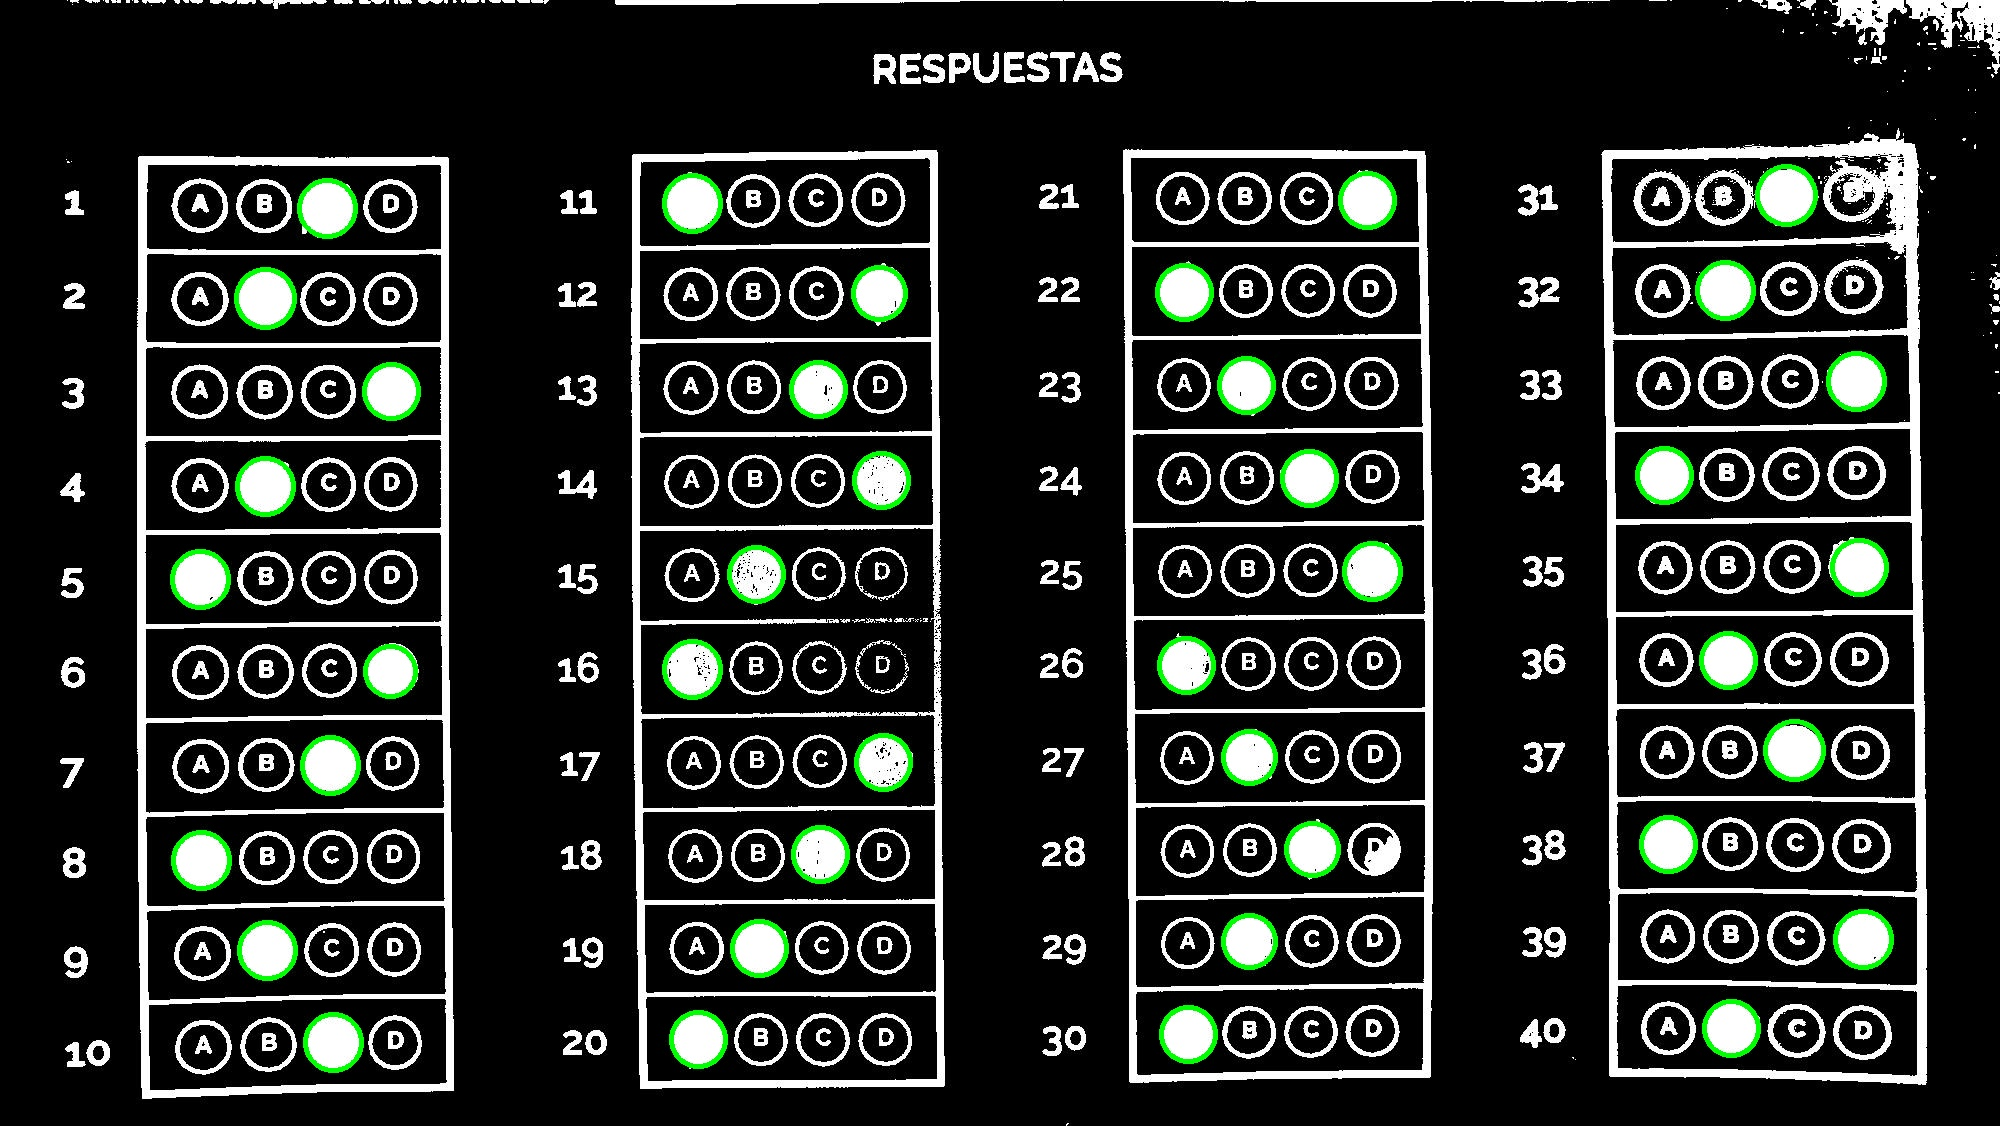
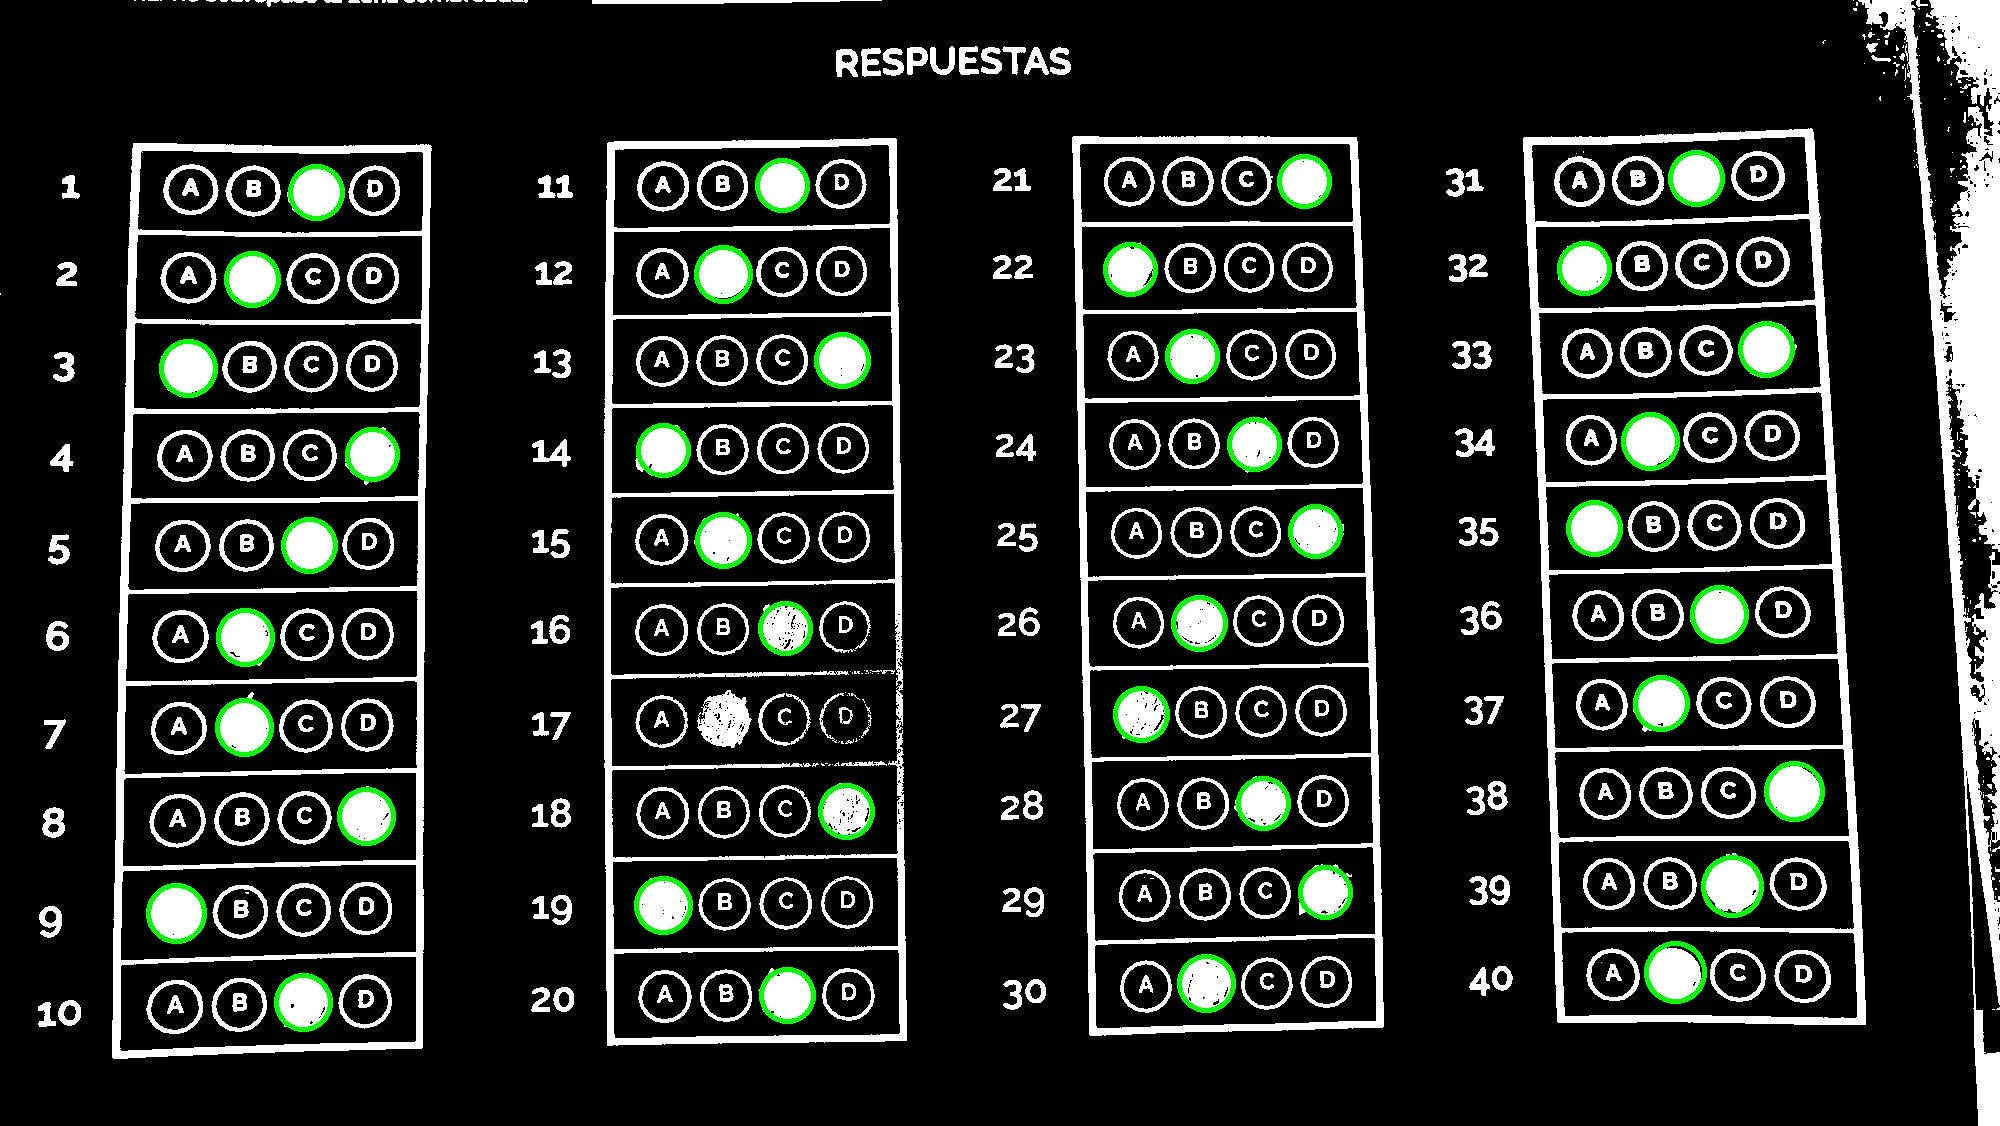
Mejorando numeración pero con fallos

Changed region(s): [[0.0, 0.0, 1.0, 1.0], [0.403, 0.0311, 0.558, 0.0933]]

diff --git a/src/correctorExamenes/Busqueda.java b/src/correctorExamenes/Busqueda.java
@@ -3,12 +3,15 @@ package correctorExamenes;
 import java.util.ArrayList;
 import java.util.Collections;
 import java.util.Comparator;
+import java.util.HashMap;
 import java.util.List;
+import java.util.Map;
 
 public class Busqueda {
 
     public void busquedaLetras(List<Par> coordenadas) {
 	List<Par> listaFinal = new ArrayList<>();
+	Map<Integer, String> listaNumeros = new HashMap<>();
 	// Ordenar la lista
 	Collections.sort(coordenadas, new Comparator<Par>() {
 	    @Override
@@ -34,41 +37,58 @@ public class Busqueda {
 	    int intC = 300; // 330
 	    int intD = 360; // 390
 
+	    int entreColumnas = 485; // entre columnas de a - a 485
+
 	    String letra = "A";
 	    if (stringX < intB) {
-		System.out.println("Letra A Primera Columna" + fila);
+		int numeroPregunta = numeroPregunta(fila);
+		listaNumeros.put(numeroPregunta, "A");
+		System.out.println("Pregunta :" + numeroPregunta + " A Primera Columna" + fila);
 		listaFinal.add(fila);
 		letra = "A";
 	    } else if (stringX > intB && stringX < intC) {
+		int numeroPregunta = numeroPregunta(fila);
+		listaNumeros.put(numeroPregunta, "B");
 		listaFinal.add(fila);
-		System.out.println("Letra B Primera Columna " + fila);
+		System.out.println("Pregunta :" + numeroPregunta + " B Primera Columna" + fila);
 		letra = "B";
 	    } else if (stringX > intC && stringX < intD) {
+		int numeroPregunta = numeroPregunta(fila);
+		listaNumeros.put(numeroPregunta, "C");
 		listaFinal.add(fila);
-		System.out.println("Letra C Primera Columna " + fila);
+		System.out.println("Pregunta :" + numeroPregunta + " C Primera Columna" + fila);
 		letra = "C";
 	    } else if (stringX > intD && stringX < 400) {
+		int numeroPregunta = numeroPregunta(fila);
+		listaNumeros.put(numeroPregunta, "D");
 		listaFinal.add(fila);
-		System.out.println("Letra D Primera Columna " + fila);
+		System.out.println("Pregunta :" + numeroPregunta + " D Primera Columna" + fila);
 		letra = "D";
 	    } // else {
 	      // System.out.println("Error de lectura " + fila);
 	      // }
-	    int segundaColumna = 500;
 
-	    if (stringX < (intB + segundaColumna) && stringX > 400) {
+	    if (stringX < (intB + entreColumnas) && stringX > 400) {
+		int numeroPregunta = numeroPregunta(fila);
+		listaNumeros.put(numeroPregunta + 10, "A");
 		listaFinal.add(fila);
 		System.out.println("Letra A Segunda Columna" + fila);
 		letra = "A";
-	    } else if (stringX > (intB + segundaColumna) && stringX < (intC + segundaColumna)) {
+	    } else if (stringX > (intB + entreColumnas) && stringX < (intC + entreColumnas)) {
+		int numeroPregunta = numeroPregunta(fila);
+		listaNumeros.put(numeroPregunta + 10, "B");
 		listaFinal.add(fila);
 		System.out.println("Letra B Segunda Columna " + fila);
 		letra = "B";
-	    } else if (stringX > (intC + segundaColumna) && stringX < (intD + segundaColumna)) {
+	    } else if (stringX > (intC + entreColumnas) && stringX < (intD + entreColumnas)) {
+		int numeroPregunta = numeroPregunta(fila);
+		listaNumeros.put(numeroPregunta + 10, "C");
 		listaFinal.add(fila);
 		System.out.println("Letra C Segunda Columna " + fila);
 		letra = "C";
-	    } else if (stringX > (intD + segundaColumna) && stringX < 900) {
+	    } else if (stringX > (intD + entreColumnas) && stringX < 900) {
+		int numeroPregunta = numeroPregunta(fila);
+		listaNumeros.put(numeroPregunta + 10, "D");
 		listaFinal.add(fila);
 		System.out.println("Letra D Segunda Columna " + fila);
 		letra = "D";
@@ -76,48 +96,99 @@ public class Busqueda {
 	      // System.out.println("Error de lectura " + fila);
 	      // }
 
-	    int terceraColumna = 990;
+	    int terceraColumna = (entreColumnas * 2);
 
 	    if (stringX < (intB + terceraColumna) && stringX > 900) {
+		int numeroPregunta = numeroPregunta(fila);
+		listaNumeros.put(numeroPregunta + 20, "A");
 		listaFinal.add(fila);
 		System.out.println("Letra A Tercera Columna" + fila);
 		letra = "A";
 	    } else if (stringX > (intB + terceraColumna) && stringX < (intC + terceraColumna)) {
+		int numeroPregunta = numeroPregunta(fila);
+		listaNumeros.put(numeroPregunta + 20, "B");
 		listaFinal.add(fila);
 		System.out.println("Letra B Tercera Columna " + fila);
 		letra = "B";
 	    } else if (stringX > (intC + terceraColumna) && stringX < (intD + terceraColumna)) {
+		int numeroPregunta = numeroPregunta(fila);
+		listaNumeros.put(numeroPregunta + 20, "C");
 		listaFinal.add(fila);
 		System.out.println("Letra C Tercera Columna " + fila);
 		letra = "C";
-	    } else if (stringX > (intD + terceraColumna) && stringX < 1450) {
+	    } else if (stringX > (intD + terceraColumna) && stringX < 1335) {
+		int numeroPregunta = numeroPregunta(fila);
+		listaNumeros.put(numeroPregunta + 20, "D");
 		listaFinal.add(fila);
 		System.out.println("Letra D Tercera Columna " + fila);
 		letra = "D";
 	    }
 
-	    int cuartaColumna = 1450;
+	    int cuartaColumna = (entreColumnas * 3);
 
-	    if (stringX < (intB + cuartaColumna) && stringX > 1450) {
+	    if (stringX < (intB + cuartaColumna) && stringX > 1335) {
+		int numeroPregunta = numeroPregunta(fila);
+		listaNumeros.put(numeroPregunta + 30, "A");
 		listaFinal.add(fila);
 		System.out.println("Letra A Cuarta Columna" + fila);
 		letra = "A";
 	    } else if (stringX > (intB + cuartaColumna) && stringX < (intC + cuartaColumna)) {
+		int numeroPregunta = numeroPregunta(fila);
+		listaNumeros.put(numeroPregunta + 30, "B");
 		listaFinal.add(fila);
 		System.out.println("Letra B Cuarta Columna " + fila);
 		letra = "B";
 	    } else if (stringX > (intC + cuartaColumna) && stringX < (intD + cuartaColumna)) {
+		int numeroPregunta = numeroPregunta(fila);
+		listaNumeros.put(numeroPregunta + 30, "C");
 		listaFinal.add(fila);
 		System.out.println("Letra C Cuarta Columna " + fila);
 		letra = "C";
 	    } else if (stringX > (intD + cuartaColumna)) {
 		System.out.println("Letra D Cuarta Columna " + fila);
+		int numeroPregunta = numeroPregunta(fila);
+		listaNumeros.put(numeroPregunta + 30, "D");
 		listaFinal.add(fila);
 		letra = "D";
 	    }
 
 	}
 	System.out.println(listaFinal);
+	System.out.println(listaNumeros);
+	// Ordenar la lista
+	Collections.sort(listaFinal, new Comparator<Par>() {
+	    @Override
+	    public int compare(Par p1, Par p2) {
+		int compareFirst = Double.compare(p2.getNumeroY(), p1.getNumeroY());
+		if (compareFirst != 0) {
+		    return compareFirst;
+		} else {
+		    return Double.compare(p2.getNumeroX(), p1.getNumeroX());
+		}
+	    }
+	});
+	System.out.println(listaFinal);
+
+	// numeroPregunta(listaFinal);
+    }
+
+    public Integer numeroPregunta(Par fila) {
+	int horquillaSize = 90;
+	int horquillaInicial = 200;
+
+	double numero = fila.getNumeroY();
+	int horquilla = (int) Math.ceil((numero - horquillaInicial) / horquillaSize) + 1;
+	return horquilla;
+    }
+
+    public void numerar(List<Par> listaFinal) {
+	Map<Integer, String> listaNumeros = new HashMap<>();
+	for (Par fila : listaFinal) {
+	    if (fila.getNumeroY() < 208) {
+
+	    }
+
+	}
 
     }
 

diff --git a/src/correctorExamenes/BusquedaCirculos.java b/src/correctorExamenes/BusquedaCirculos.java
@@ -83,7 +83,7 @@ public class BusquedaCirculos {
 
 	    // Si la mayoría de los píxeles son blancos, añadimos el círculo a la lista de
 	    // círculos blancos
-	    if (whitePixels > (Math.PI * radius * radius * 0.7)) { // 70% de los píxeles son blancos
+	    if (whitePixels > (Math.PI * radius * radius * 0.8)) { // 70% de los píxeles son blancos
 		whiteCircles.add(center);
 		// Dibujar el círculo detectado en la imagen original
 		Imgproc.circle(src, center, radius, new Scalar(0, 255, 0), 3);
@@ -101,7 +101,8 @@ public class BusquedaCirculos {
 	    lista.add(pares);
 	}
 
-	System.out.println(lista);
+	System.out.println("lista sin Ordenar " + lista);
+
 	// pasa a la clase que buscará las letras de los circulos
 	Busqueda busqueda = new Busqueda();
 	busqueda.busquedaLetras(lista);
@@ -109,7 +110,7 @@ public class BusquedaCirculos {
     }
 
     public static void invertirOscurecer() throws IOException {
-	File file = new File("src/correctorExamenes/examen2.jpg");
+	File file = new File("src/correctorExamenes/examen3.jpg");
 	BufferedImage img = ImageIO.read(file);
 
 	// Invierte los valores RGB de cada pixel
